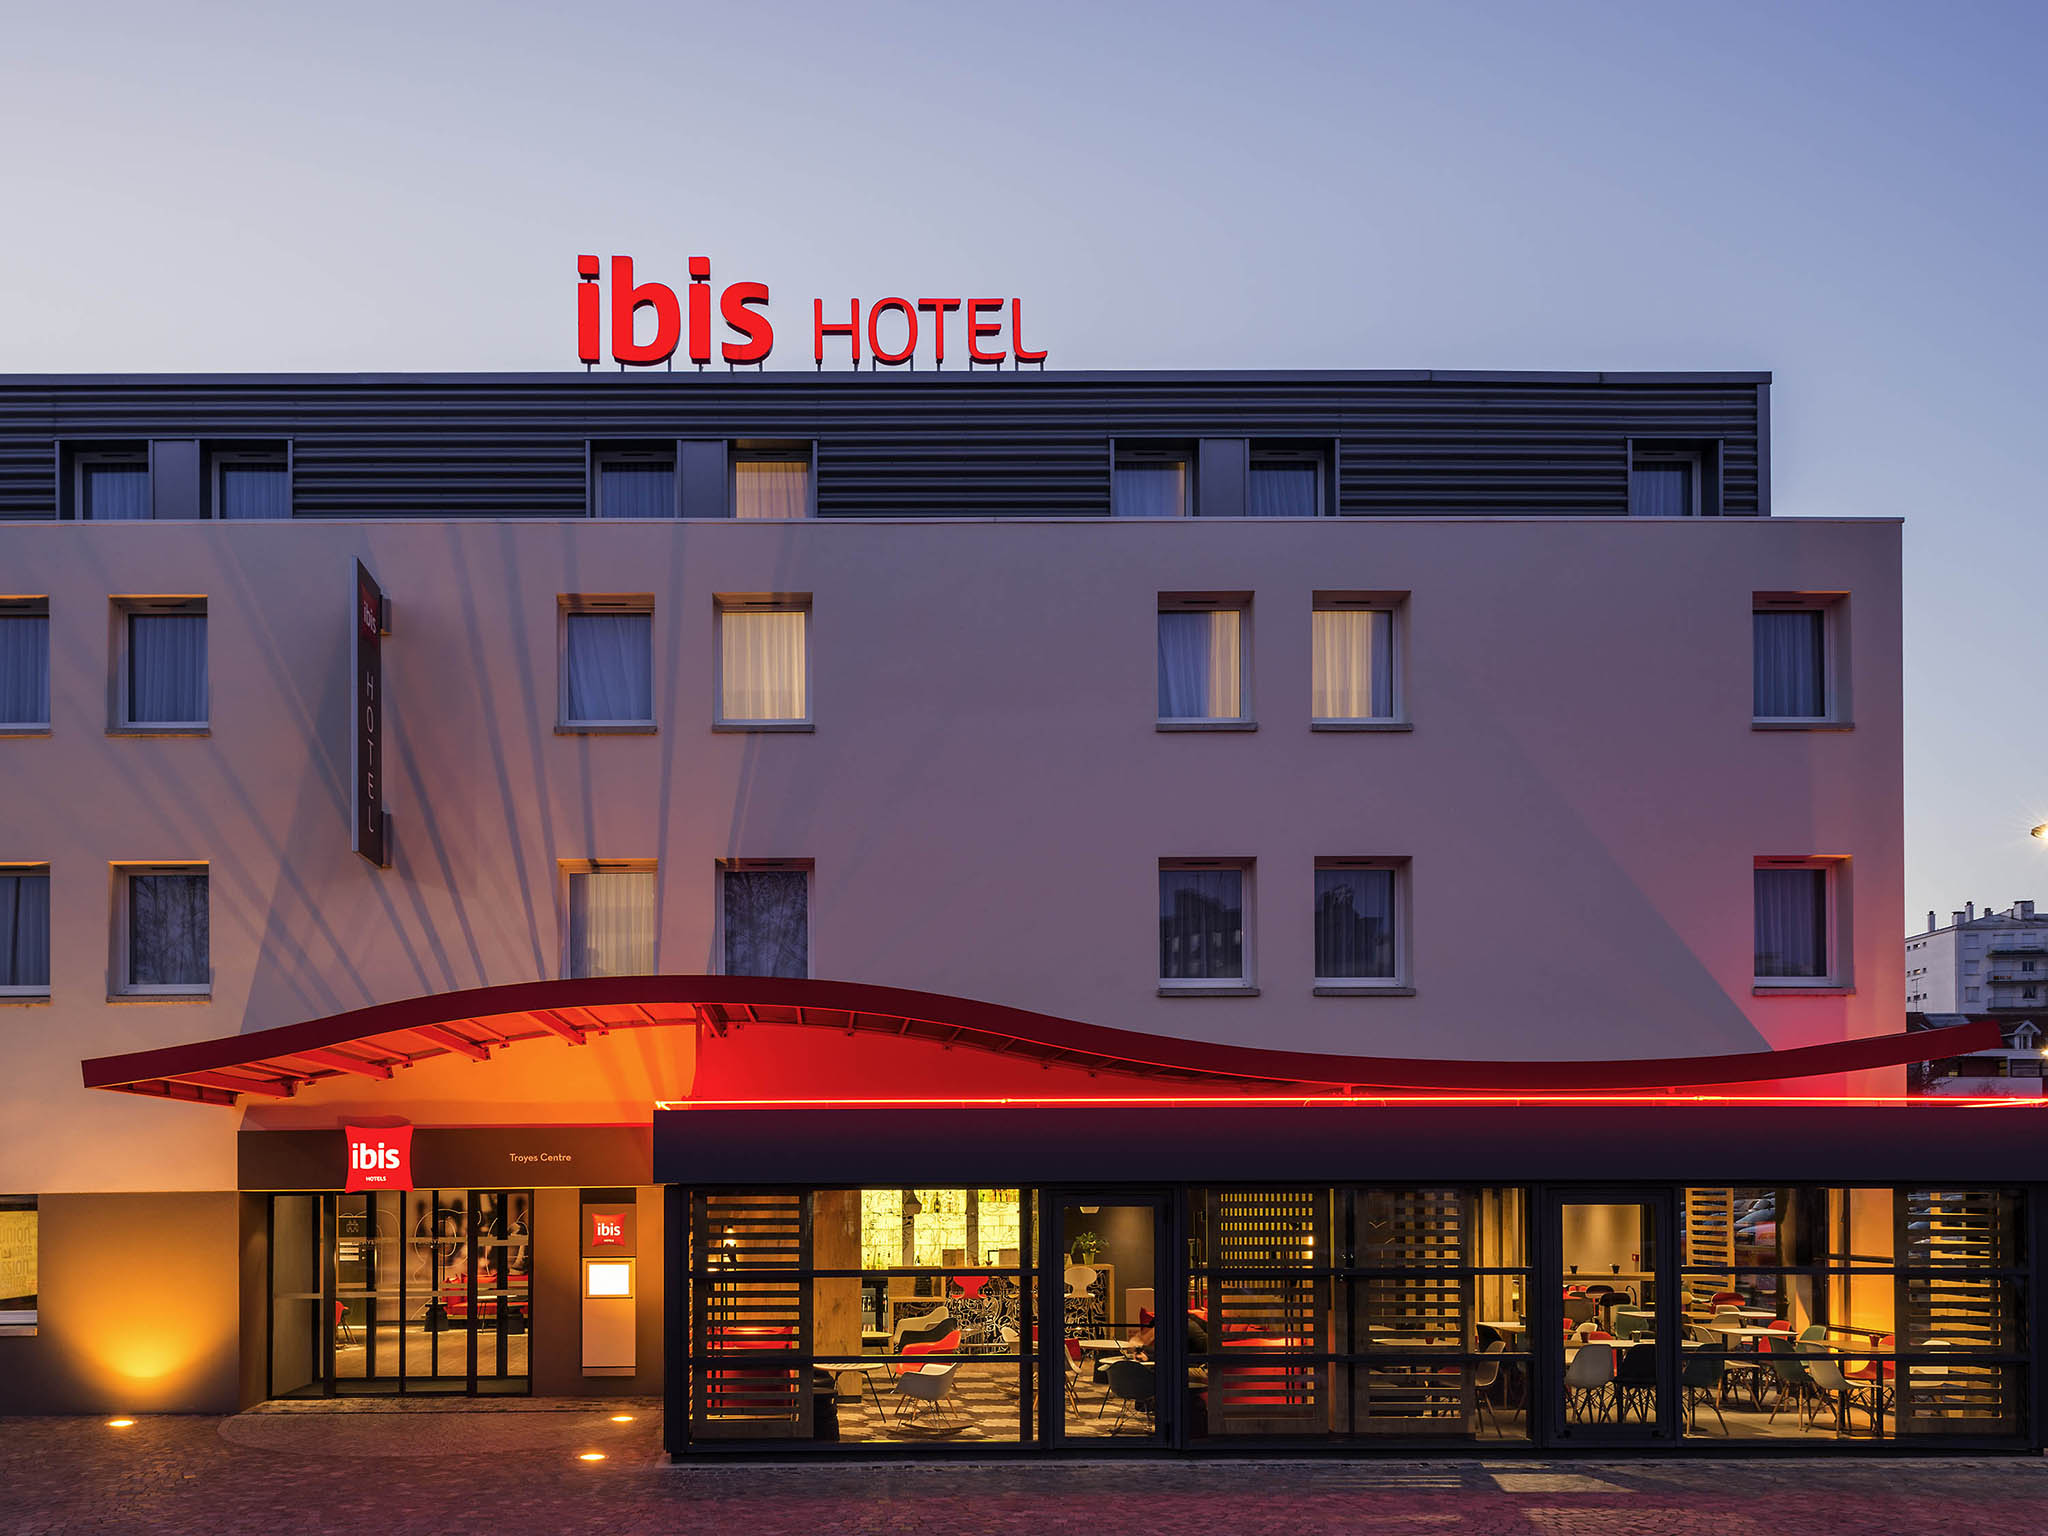
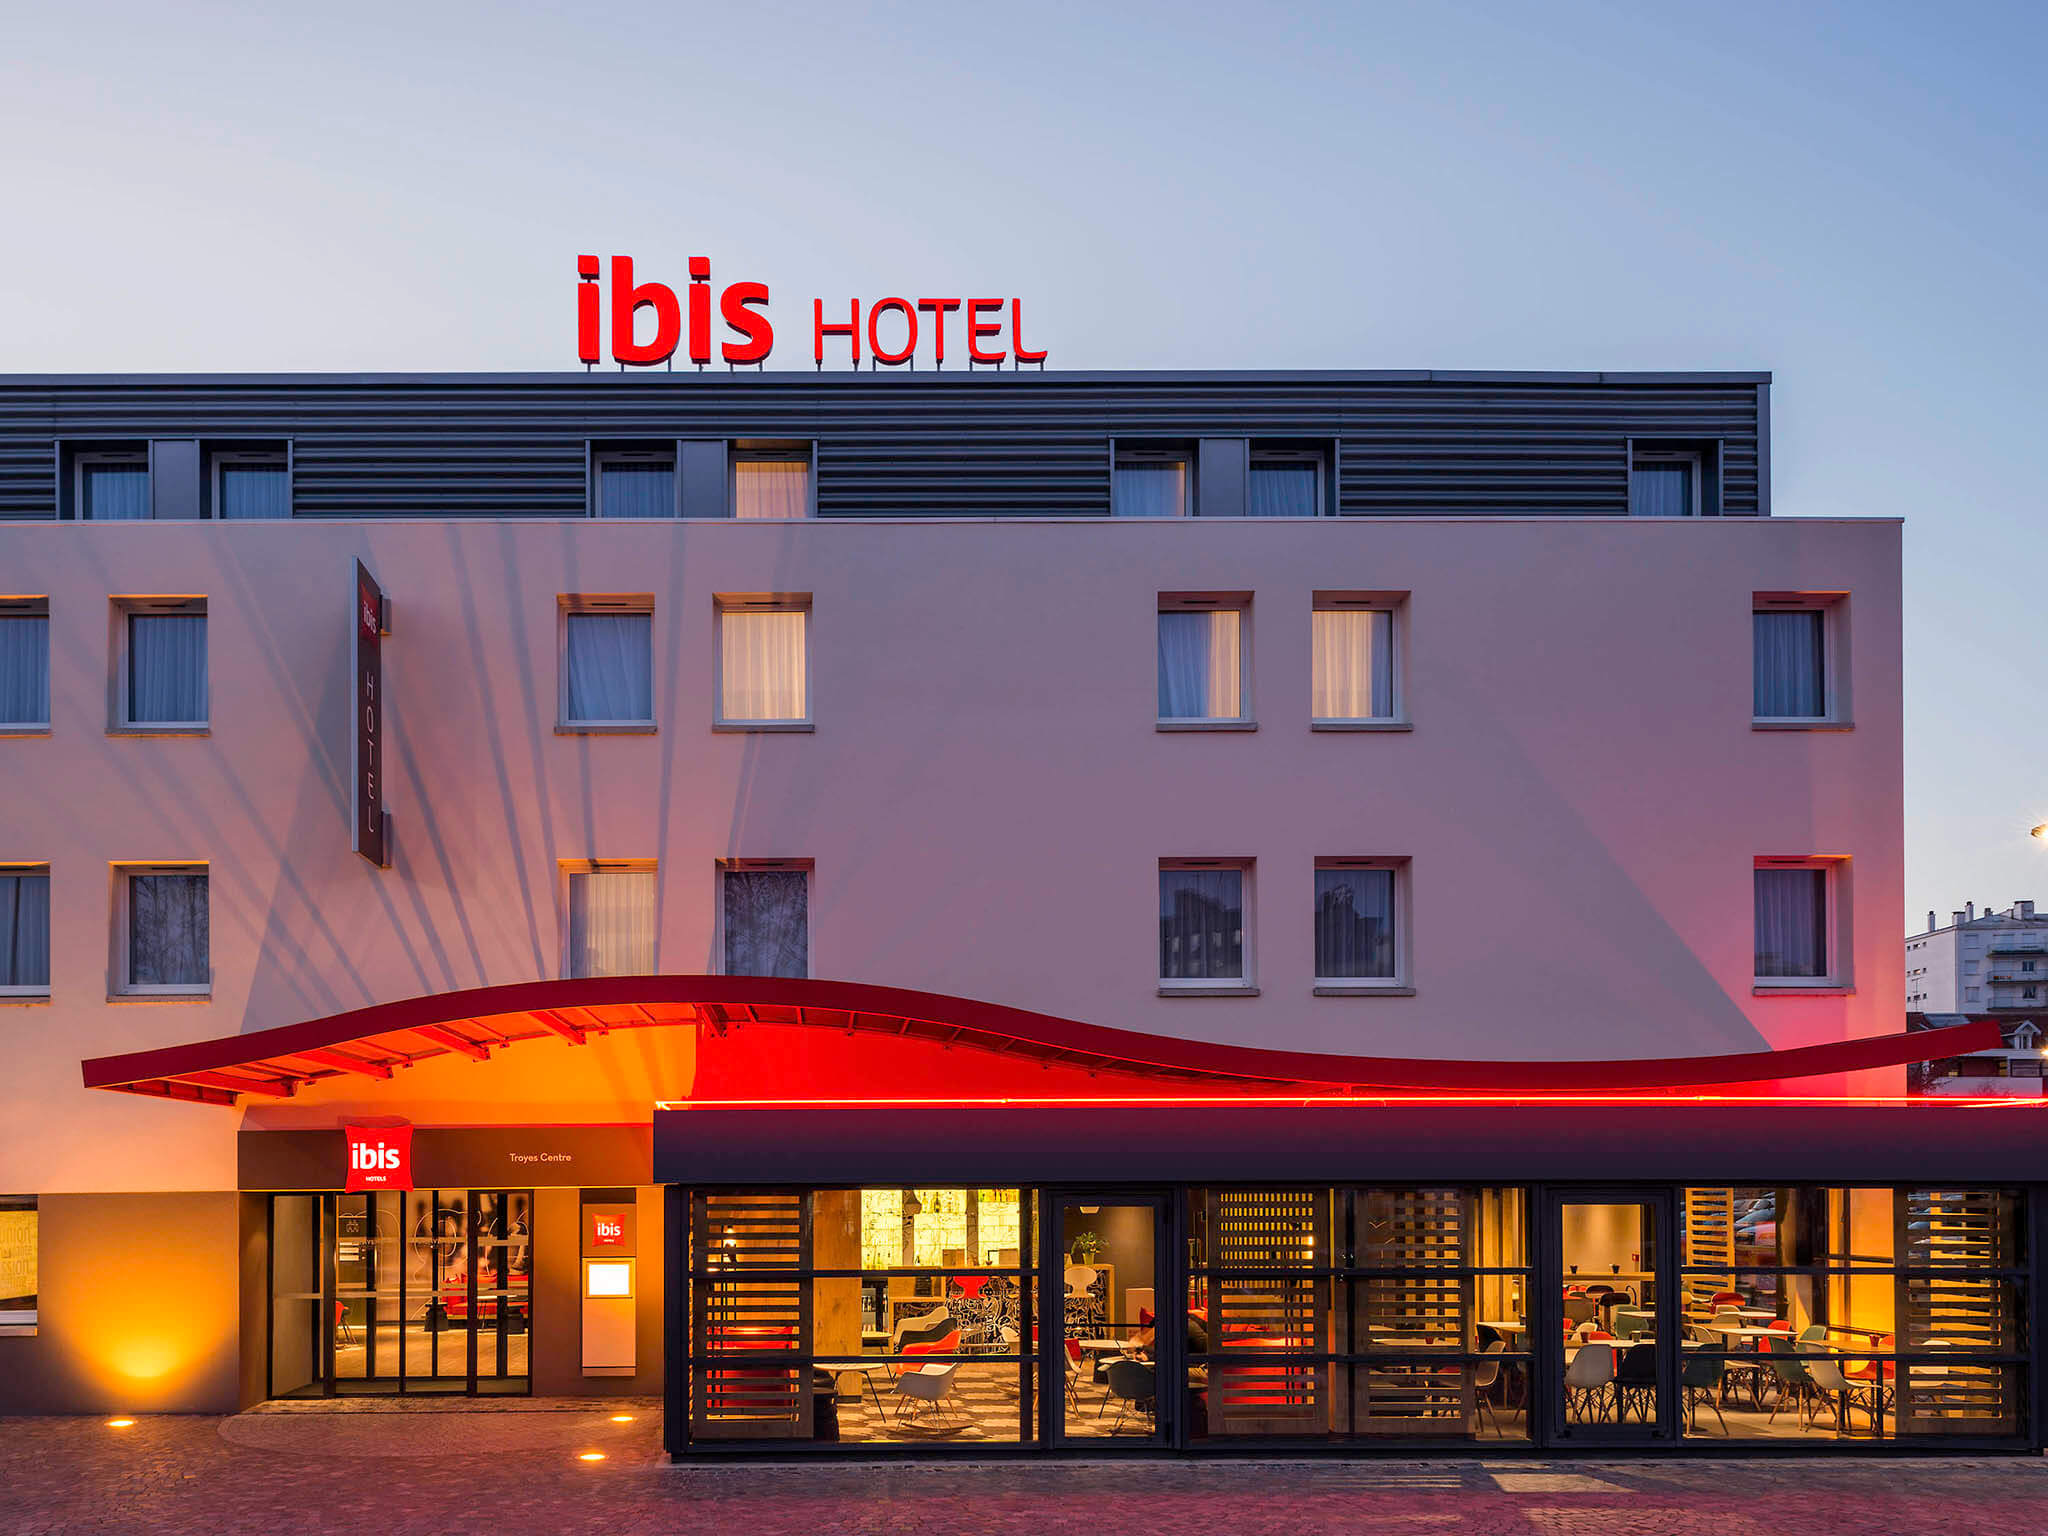
Weight of the images reduce with Tiny PNG

diff --git a/index.html b/index.html
@@ -106,7 +106,7 @@
         </div>
       </div>
     </section>
-    <!--------------------------------------------SECTION QUARTIER------------------------------------------------->
+    <!--------------------------------------------SECTION-QUARTIER------------------------------------------------->
     <section id="quartier-libre" class="py-5 bg-orange row px-5 mb-2 text-light">
       <div class="col-md-7 offset-md-1 col-12 order-md-first order-last">
         <h1 class="titre">Quartier Libre</h1>
@@ -121,7 +121,7 @@
             de l'Union<i class="fas fa-bookmark fa-2x pl-2"></i></a>
         </div>
       </div>
-      <div class="col-md-3 col-12 order-md-last mb-4 mb-sm-0 order-first">
+      <div class="col-md-3 col-12 order-md-last mb-4 mb-md-0 order-first">
           <img class="w-100 d-block mx-auto" src="images/circle-quartierlibre.png" alt="">
       </div>
     </section>
